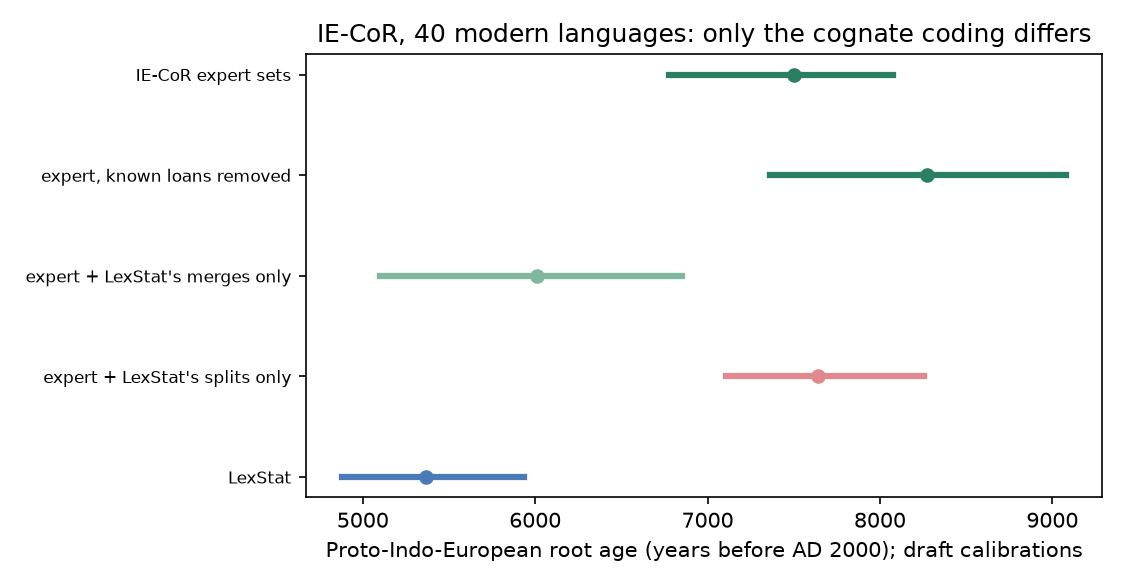
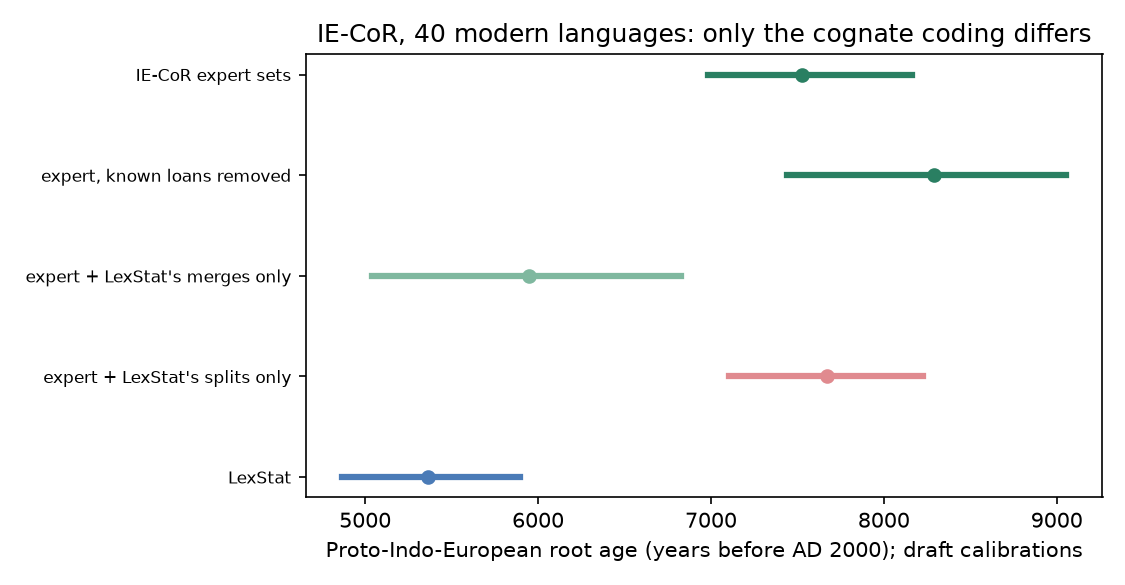
Milestone 7: final IE-CoR results

diff --git a/README.md b/README.md
@@ -613,7 +613,7 @@ root split (deep recall 0.46 vs 0.59 overall), which random clade splits do
 not reproduce. Splits concentrated at the root are an untested candidate.
 The V2 sign is left open.
 
-### Milestone 7: Indo-European (IE-CoR) replication (provisional, draft calibrations, do not quote)
+### Milestone 7: Indo-European (IE-CoR) replication (draft calibrations, do not quote)
 
 `scripts/m7_iecor.py prepare|run|summarise`; prior `infer/beast/m7_iecor_prior.json`;
 `data/derived/m7`; `figures/m7_iecor.png`. IE-CoR v1.2.1 (lexibank/iecor), with
@@ -627,22 +627,22 @@ On IE, LexStat 0.75 **over-merges**: 1,829 sets against 2,509 expert sets,
 B-cubed P 0.71, R 0.81, F 0.75. This is the opposite of Mayan, where it
 over-split.
 
-Provisional results at 1.8 to 3M of 10M states (root ESS 325 to 411):
+Results at 10M states (root ESS 1,491 to 1,801; the loans-removed run at 5.2M states, ESS 932):
 
 | Coding | Sets | Singleton share | Root, median BP (95% HPD) | Loss rate |
 |---|---|---|---|---|
-| IE-CoR expert | 2,509 | 0.56 | **7502** (6777 to 8074) | 1.8e-4 |
-| expert + only LexStat's splits | 3,111 | 0.62 | 7641 (7109 to 8257) | 2.4e-4 |
-| expert + only LexStat's merges | 1,243 | 0.30 | **6012** (5101 to 6853) | 2.2e-4 |
-| LexStat | 1,829 | 0.31 | **5367** (4880 to 5934) | 3.3e-4 |
-| expert, forms in IE-CoR loan sets removed | 2,093 | 0.52 | 8271 (7360 to 9081), ESS 89 | 1.5e-4 |
+| IE-CoR expert | 2,509 | 0.56 | **7528** (6985 to 8162) | 1.8e-4 |
+| expert + only LexStat's splits | 3,111 | 0.62 | 7671 (7104 to 8224) | 2.4e-4 |
+| expert + only LexStat's merges | 1,243 | 0.30 | **5947** (5039 to 6826) | 2.2e-4 |
+| LexStat | 1,829 | 0.31 | **5364** (4867 to 5898) | 3.3e-4 |
+| expert, forms in IE-CoR loan sets removed | 2,093 | 0.52 | 8292 (7438 to 9055) | 1.5e-4 |
 
-- Automated coding again makes the root about 2,100 years younger on identical
+- Automated coding again makes the root about 2,160 years younger on identical
   words, so the headline effect replicates in a second family. The expert root
   sits between the Steppe and Anatolian hypotheses, near Heggarty et al.'s
   (2023) c. 8,100 BP. That is reassuring, but the calibrations are draft.
 - The error type that does the damage differs. On IE, LexStat's merges move
-  the root young by about 1,500 years and its splits do almost nothing. On
+  the root young by about 1,580 years and its splits do almost nothing. On
   Mayan, splits did the damage.
 - This qualifies 5c. There, the merge-only and expert runs both sat at the
   root prior's upper bound, so "merges are harmless" was not actually tested.
@@ -652,8 +652,8 @@ Provisional results at 1.8 to 3M of 10M states (root ESS 325 to 411):
   errors that remove change between distant branches: spurious merges across
   branches (IE), which act like borrowing. Subgroup-sized splits fall in
   between (6s).
-- Removing the expert-identified loans makes the root *older* (provisional,
-  low ESS). This is the direction borrowing predicts (milestones 2 and 6),
+- Removing the expert-identified loans makes the root *older*, by about
+  760 years, with overlapping intervals. This is the direction borrowing predicts (milestones 2 and 6),
   and the first real-data check of it. Removing whole loan sets also drops
   the donor's inherited forms when the donor is in the sample, so this is a
   rough test.
